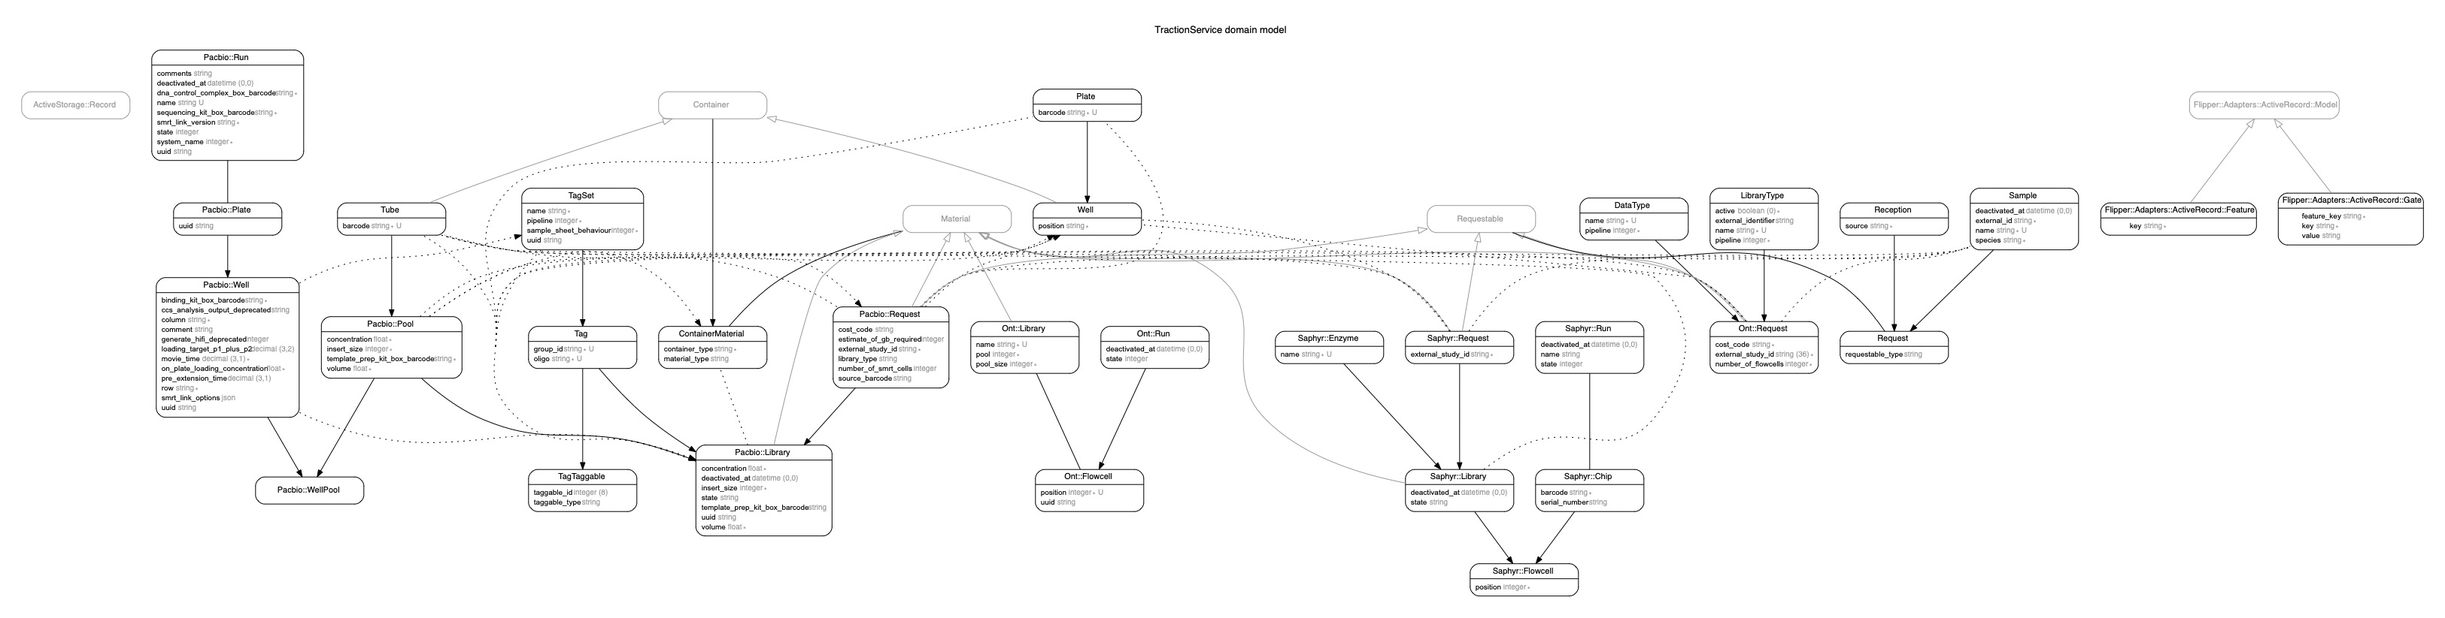
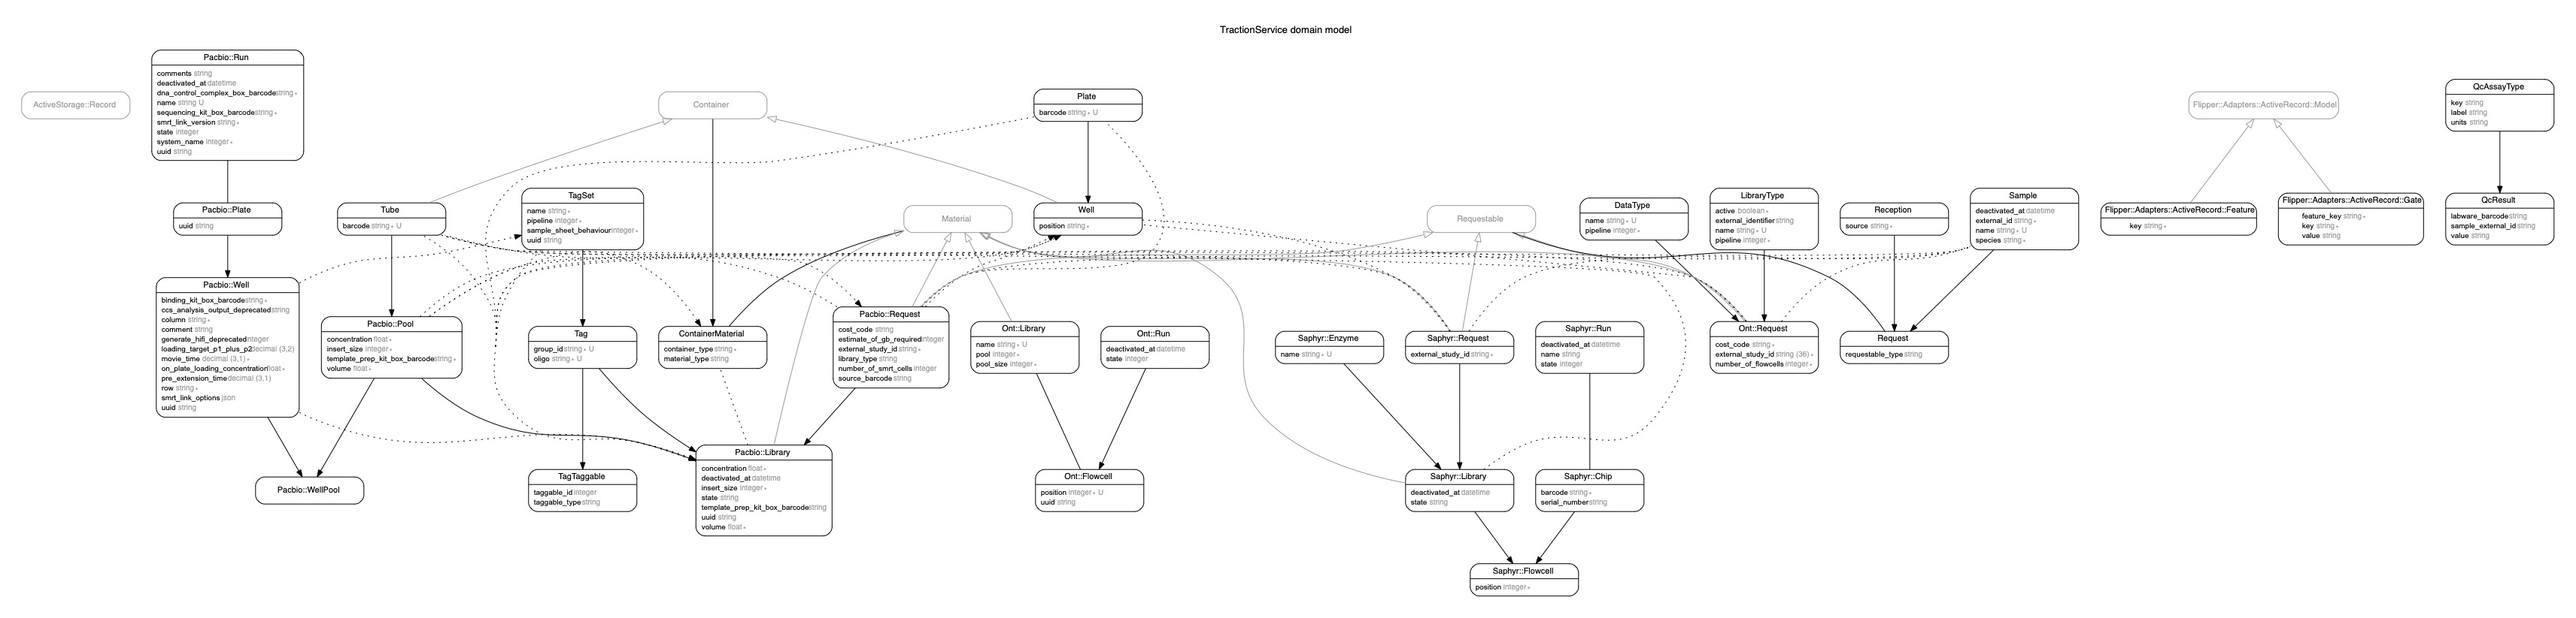
Create QcAssayType and QcResult models - haven't included the schema yet as have to sort out SQLite vs MySQL local changes

diff --git a/spec/models/qc_result_spec.rb b/spec/models/qc_result_spec.rb
@@ -1,0 +1,50 @@
+# frozen_string_literal: true
+
+require 'rails_helper'
+
+RSpec.describe QcResult, type: :model do
+  let(:qc_assay_type) { create :qc_assay_type }
+
+  describe '#create' do
+    it 'is possible to create a new record' do
+      expect do
+        described_class.create!(
+          labware_barcode: 'YZ1234',
+          sample_external_id: 'any_id',
+          qc_assay_type:,
+          value: 'the result'
+        ) end.to change(described_class, :count).by(1)
+    end
+
+    it 'errors if missing required relationship' do
+      expect do
+        described_class.create!(
+          labware_barcode: 'YZ1234',
+          sample_external_id: 'any_id',
+          value: 'the result'
+        ) end.to raise_error(ActiveRecord::RecordInvalid)
+    end
+
+    it 'errors if missing required fields' do
+      expect { described_class.create!(qc_assay_type:) }.to raise_error(ActiveRecord::RecordInvalid)
+    end
+  end
+
+  describe '#update' do
+    let(:result) { create :qc_result }
+
+    it 'is possible to update a record' do
+      expect(result.value).not_to eq('a new value')
+      result.update!(value: 'a new value')
+      expect(result.value).to eq('a new value')
+    end
+  end
+
+  describe '#destroy' do
+    let!(:result) { create :qc_result }
+
+    it 'is possible to destroy a record' do
+      expect { result.destroy! }.to change(described_class, :count).by(-1)
+    end
+  end
+end

diff --git a/spec/models/qc_assay_type_spec.rb b/spec/models/qc_assay_type_spec.rb
@@ -1,0 +1,33 @@
+# frozen_string_literal: true
+
+require 'rails_helper'
+
+RSpec.describe QcAssayType, type: :model do
+  describe '#create' do
+    it 'is possible to create a new record' do
+      expect { described_class.create!(key: 'qubit', label: 'Qubit', units: 'ng/μl') }.to change(described_class, :count).by(1)
+    end
+
+    it 'errors if missing required fields' do
+      expect { described_class.create! }.to raise_error(ActiveRecord::RecordInvalid)
+    end
+  end
+
+  describe '#update' do
+    let(:assay_type) { create :qc_assay_type }
+
+    it 'is possible to update a record' do
+      expect(assay_type.units).not_to eq('fakeunit')
+      assay_type.update!(units: 'fakeunit')
+      expect(assay_type.units).to eq('fakeunit')
+    end
+  end
+
+  describe '#destroy' do
+    let!(:assay_type) { create :qc_assay_type }
+
+    it 'is possible to destroy a record' do
+      expect { assay_type.destroy! }.to change(described_class, :count).by(-1)
+    end
+  end
+end

diff --git a/db/migrate/20220818152758_create_qc_results.rb b/db/migrate/20220818152758_create_qc_results.rb
@@ -1,0 +1,12 @@
+class CreateQcResults < ActiveRecord::Migration[7.0]
+  def change
+    create_table :qc_results do |t|
+      t.string :labware_barcode
+      t.string :sample_external_id
+      t.references :qc_assay_type, null: false, foreign_key: true
+      t.string :value
+
+      t.timestamps
+    end
+  end
+end

diff --git a/app/models/qc_result.rb b/app/models/qc_result.rb
@@ -1,0 +1,9 @@
+# frozen_string_literal: true
+
+class QcResult < ApplicationRecord
+  belongs_to :qc_assay_type
+
+  validates :labware_barcode, presence: true
+  validates :sample_external_id, presence: true
+  validates :value, presence: true
+end

diff --git a/spec/factories/qc_results.rb b/spec/factories/qc_results.rb
@@ -1,0 +1,10 @@
+# frozen_string_literal: true
+
+FactoryBot.define do
+  factory :qc_result do
+    labware_barcode { 'AB1234' }
+    sample_external_id { 'Samp-1234' }
+    qc_assay_type { create :qc_assay_type }
+    value { '34' }
+  end
+end

diff --git a/db/migrate/20220818152752_create_qc_assay_types.rb b/db/migrate/20220818152752_create_qc_assay_types.rb
@@ -1,0 +1,11 @@
+class CreateQcAssayTypes < ActiveRecord::Migration[7.0]
+  def change
+    create_table :qc_assay_types do |t|
+      t.string :key
+      t.string :label
+      t.string :units
+
+      t.timestamps
+    end
+  end
+end

diff --git a/spec/factories/qc_assay_types.rb b/spec/factories/qc_assay_types.rb
@@ -1,0 +1,9 @@
+# frozen_string_literal: true
+
+FactoryBot.define do
+  factory :qc_assay_type do
+    key { 'tissueMass' }
+    label { 'Tissue Mass' }
+    units { 'mg' }
+  end
+end

diff --git a/app/models/qc_assay_type.rb b/app/models/qc_assay_type.rb
@@ -1,0 +1,6 @@
+# frozen_string_literal: true
+
+class QcAssayType < ApplicationRecord
+  validates :key, presence: true
+  validates :label, presence: true
+end
